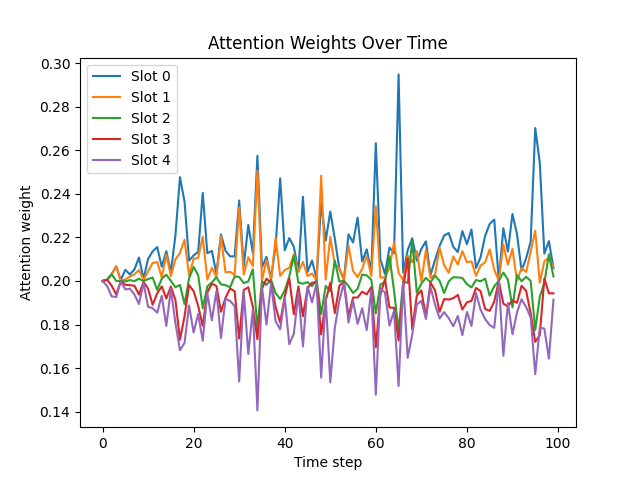
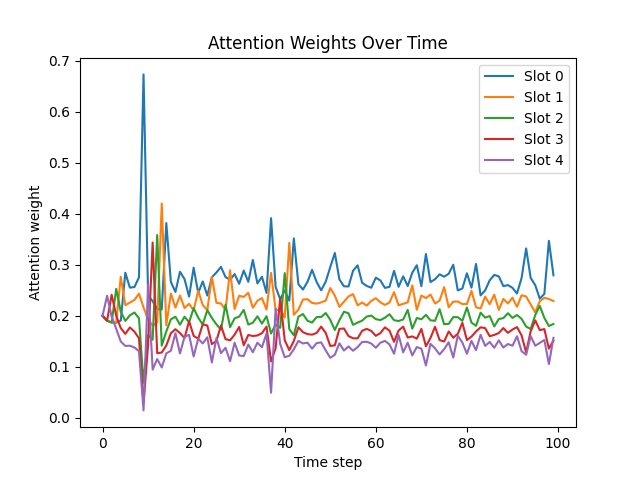
new dataset, removed reabsorb kept absorb

diff --git a/complex_demo_hy.py b/complex_demo_hy.py
@@ -20,37 +20,48 @@ OUT          = 1
 MEM_SLOTS    = 5
 P_PRIMARY    = 0.05
 P_DISTRACTOR = 0.10
-N_SEQS       = 5000
+N_SEQS       = 1000
 BS           = 64
 LR           = 1e-3
 EPOCHS       = 10
 DEVICE       = torch.device('cuda' if torch.cuda.is_available() else 'cpu')
 
 
-def make_complex_dataset(n):
-    X = np.random.rand(n, T) * 0.5
-    is_primary = np.random.rand(n, T) < P_PRIMARY
-    is_distr  = (np.random.rand(n, T) < P_DISTRACTOR) & ~is_primary
-
-    X[is_primary] = 1.0 + np.random.rand(is_primary.sum()) * 0.5
-    X[is_distr]  = 0.8 + np.random.rand(is_distr.sum()) * 0.2
-
+def make_complex_dataset(n,
+                           baseline_mu=1.0, baseline_sigma=0.2,
+                           event_rate=0.02,
+                           spike_scale=10.0,
+                           label_margin=1.2):
+    """
+    n        : # sequences
+    T        : seq length
+    event_rate : prob of a 'big' event on any step (~Poisson)
+    spike_scale: scale parameter for exponential spikes
+    """
+    # 1) baseline noise around ~1.0
+    X = np.random.normal(baseline_mu, baseline_sigma, size=(n, T))
+    # 2) draw event mask
+    is_event = np.random.rand(n, T) < event_rate
+    # 3) heavy-tailed spikes
+    spikes = np.random.exponential(scale=spike_scale, size=(n, T))
+    X[is_event] = spikes[is_event]
+    # 4) labels: look at last 3 events and compare gaps & sums
     ys = []
     for seq in X:
-        idx = np.where(seq >= 1.0)[0]
+        idx = np.where(seq > baseline_mu + 3*baseline_sigma)[0]  # event threshold
         if len(idx) < 3:
             ys.append(0.0)
             continue
         i1, i2, i3 = idx[-3], idx[-2], idx[-1]
         a1, a2, a3 = seq[i1], seq[i2], seq[i3]
-        d_prev = i2 - i1
-        d_last = i3 - i2
-        sum_prev = seq[i1+1:i2].sum()
-        sum_last = seq[i2+1:i3].sum()
-        cond = (a1 < a2 < a3) and (d_last > d_prev) and (sum_last > 1.2 * sum_prev)
+        d1, d2 = i2 - i1, i3 - i2
+        s1 = seq[i1+1:i2].sum()
+        s2 = seq[i2+1:i3].sum()
+        cond = (a1 < a2 < a3) and (d2 > d1) and (s2 > label_margin * s1)
         ys.append(1.0 if cond else 0.0)
 
-    Xt = torch.tensor(X, dtype=torch.float32).unsqueeze(-1)
+    # to torch
+    Xt = torch.tensor(X, dtype=torch.float32).unsqueeze(-1)  # (n,T,1)
     yt = torch.tensor(ys, dtype=torch.float32).unsqueeze(-1)
     return Xt, yt
 

diff --git a/slinglstm.py b/slinglstm.py
@@ -21,7 +21,6 @@ class EventMemoryCell(nn.Module):
         self.value = nn.Linear(input_dim, input_dim)
 
         # Gates: reabsorb oldest & per‐step leak
-        self.reabsorb_gate = nn.Linear(input_dim, 1)
         self.absorb_gate   = nn.Linear(input_dim, 1)
 
         # Slot‐wise RNN for fusion → hidden_dim
@@ -65,12 +64,10 @@ class EventMemoryCell(nn.Module):
         max_sim, _ = sims.max(dim=1, keepdim=True)   # (B,1)
         g = torch.sigmoid(max_sim)                   # (B,1)
 
-        # 4) Form new slot via reabsorb + value projection
-        r      = torch.sigmoid(self.reabsorb_gate(x_t))   # (B,1)
+        # 4) Form new slot via value projection
         v      = self.value(x_t)                          # (B, input_dim)
         oldest = slots[:, 0, :]                           # (B, input_dim)
-        new_slot = r * oldest + (1 - r) * v               # (B, input_dim)
-        new_slot = g * new_slot                           # gated commit
+        new_slot = v  # (B, input_dim)
 
         # 5) FIFO replace
         slots = torch.cat([slots[:, 1:, :], new_slot.unsqueeze(1)], dim=1)
